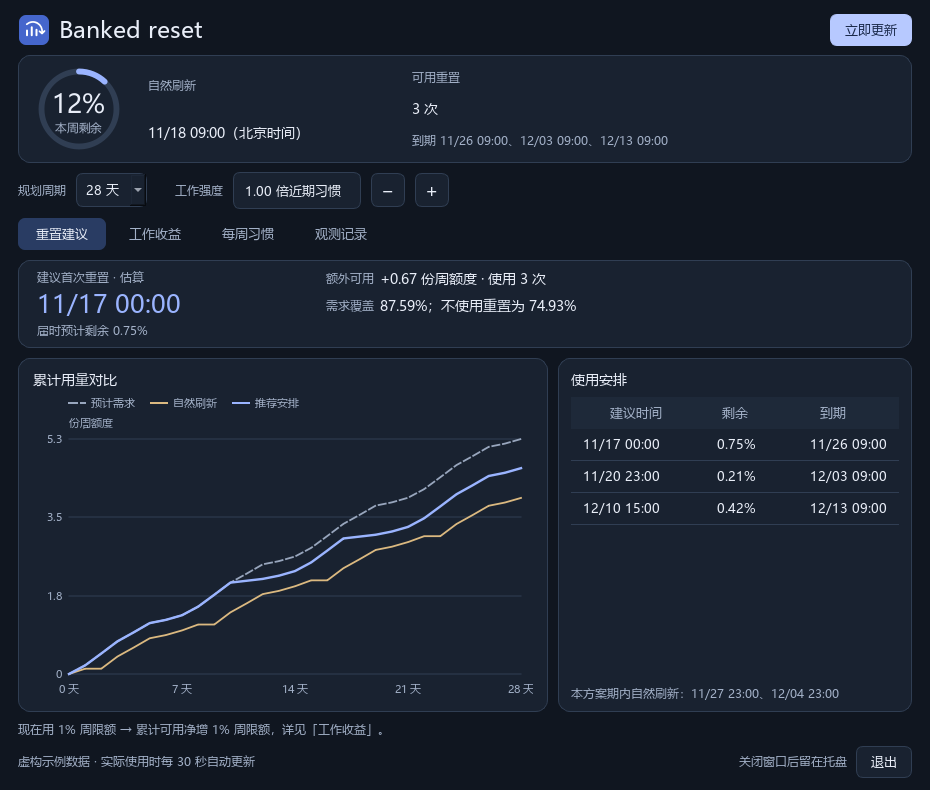
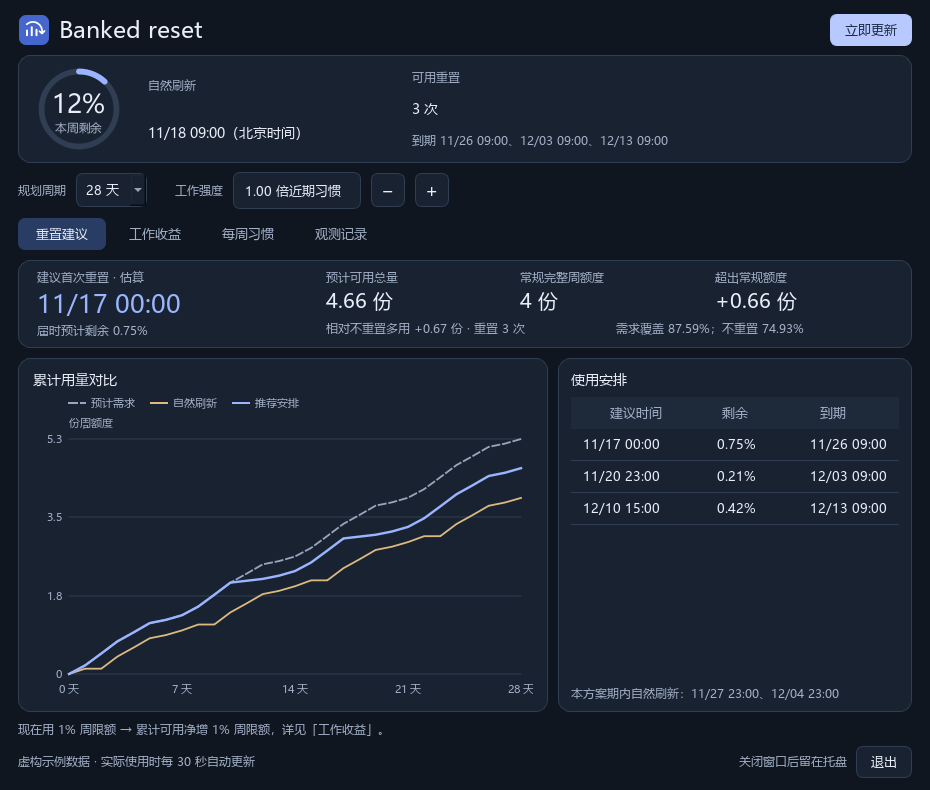
Show projected usage above complete weekly allowances

Changed region(s): [[0.343, 0.3342, 0.6548, 0.4253], [0.6548, 0.3342, 0.8731, 0.4253]]

diff --git a/tests/test_desktop.py b/tests/test_desktop.py
@@ -1,4 +1,4 @@
-"""Native work-return states use synthetic data and no account integration."""
+"""Native totals and work-return states use synthetic data and no account integration."""
 import copy
 import json
 import os
@@ -69,12 +69,44 @@ class WorkReturnTests(unittest.TestCase):
         self.assertEqual(self.window.marginal_table.item(0, 2).text(), '0.29')
         self.assertEqual(self.window.marginal_chart.marginal['futureGain'], 0)
 
+    def test_totals_subtract_one_full_allowance_per_week(self):
+        for index, days, total, surplus in [(0, 14, '0.14', '-1.86'),
+                                            (1, 28, '0.28', '-3.72'),
+                                            (2, 42, '0.42', '-5.58')]:
+            with self.subTest(days=days):
+                self.window.days.setCurrentIndex(index)
+                payload = copy.deepcopy(self.payload)
+                payload['settings'] = [days, 1]
+                payload['result'] = Calculator().optimize(payload['state']['model'], days)
+                self.window.update_state(payload)
+                self.assertEqual(self.window.period_total.text(), total+' 份')
+                self.assertEqual(self.window.regular_total.text(), str(days//7)+' 份')
+                self.assertEqual(self.window.allowance_surplus.text(), surplus+' 份')
+
+    def test_reset_surplus_uses_complete_allowance_not_predicted_no_reset_usage(self):
+        payload = copy.deepcopy(self.payload)
+        model = payload['state']['model']
+        model['hourlyByThreeHours'] = [[100/24]*8 for _ in range(7)]
+        model['dailyRates'] = [100]*7
+        model['account']['expiries'] = [model['account']['capturedAt']+day*86400 for day in (10, 20)]
+        payload['result'] = Calculator().optimize(model)
+        self.window.update_state(payload)
+        self.assertEqual(self.window.period_total.text(), '5.5 份')
+        self.assertEqual(self.window.regular_total.text(), '4 份')
+        self.assertEqual(self.window.allowance_surplus.text(), '+1.5 份')
+        self.assertIn('多用 +2 份', self.window.gain.text())
+        self.assertEqual(payload['result']['baseline']/100, 3.5)
+
     def test_changing_period_and_losing_connection_clear_old_return(self):
         self.window.days.setCurrentIndex(2)
+        self.assertEqual(self.window.period_total.text(), '—')
+        self.assertEqual(self.window.regular_total.text(), '—')
+        self.assertEqual(self.window.allowance_surplus.text(), '—')
         self.assertEqual(self.window.marginal_value.text(), '正在重算…')
         self.assertIsNone(self.window.marginal_chart.marginal)
         self.window.update_state(copy.deepcopy(self.payload))
         self.assertEqual(self.window.marginal_value.text(), '正在重算…')
+        self.assertEqual(self.window.allowance_surplus.text(), '—')
         offline = copy.deepcopy(self.payload)
         offline['settings'] = [42, 1]
         offline['result'] = None
@@ -84,6 +116,15 @@ class WorkReturnTests(unittest.TestCase):
         self.assertIsNone(self.window.marginal_chart.marginal)
         self.assertEqual(self.window.marginal_table.rowCount(), 0)
         self.assertEqual(self.window.comparison.text(), '')
+        self.assertEqual(self.window.period_total.text(), '—')
+        self.assertEqual(self.window.regular_total.text(), '—')
+        self.assertEqual(self.window.allowance_surplus.text(), '—')
+
+    def test_collector_failure_clears_old_totals(self):
+        self.window.show_failure('collection stopped')
+        self.assertEqual(self.window.period_total.text(), '—')
+        self.assertEqual(self.window.regular_total.text(), '—')
+        self.assertEqual(self.window.allowance_surplus.text(), '—')
 
     def test_less_than_one_point_shows_unavailable_instead_of_old_gain(self):
         payload = copy.deepcopy(self.payload)
@@ -101,6 +142,7 @@ class WorkReturnTests(unittest.TestCase):
         settings=json.loads((Path(self.folder.name)/'preferences.json').read_text(encoding='utf-8'))
         self.assertAlmostEqual(settings['strength'],1.05)
         self.assertEqual(self.window.marginal_value.text(),'正在重算…')
+        self.assertEqual(self.window.allowance_surplus.text(), '—')
         QTest.mouseClick(self.window.decrease_strength, Qt.MouseButton.LeftButton)
         self.assertAlmostEqual(self.window.strength.value(),1)
         self.window.strength.setValue(self.window.strength.maximum())

diff --git a/desktop.py b/desktop.py
@@ -160,6 +160,7 @@ class Window(QMainWindow):
         (RUNTIME/'preferences.json').write_text(json.dumps({'days': self.days.currentData(),
             'strength': self.strength.value()}), encoding='utf-8')
         self.first.setText('正在重算…')
+        self.update_totals(None)
         self.update_marginal(None, '正在重算…')
         self.request()
 
@@ -201,6 +202,7 @@ class Window(QMainWindow):
         if payload['settings'] != [self.days.currentData(), self.strength.value()]:
             return
         result = payload.get('result')
+        self.update_totals(result)
         if result is None:
             self.first.setText('暂无法规划')
             self.first_note.setText('状态说明见下方提示')
@@ -216,10 +218,10 @@ class Window(QMainWindow):
         self.first.setText(date(first['time']) if first else '暂不需要')
         self.first_note.setText('届时预计剩余 '+number(first['before'])+'%' if first else '期内使用需求无需额外重置')
         self.forecast_chart.set_result(result)
-        self.gain.setText('+'+number((result['optimal']['served']-result['baseline'])/100)+' 份周额度 · 使用 '+str(result['optimal']['count'])+' 次')
+        self.gain.setText('相对不重置多用 '+points((result['optimal']['served']-result['baseline'])/100, signed=True)+' 份 · 重置 '+str(result['optimal']['count'])+' 次')
         met = 100*result['optimal']['served']/result['demand'] if result['demand'] else 100
         baseline = 100*result['baseline']/result['demand'] if result['demand'] else 100
-        self.met.setText(number(met)+'%；不使用重置为 '+number(baseline)+'%')
+        self.met.setText('需求覆盖 '+number(met)+'%；不重置 '+number(baseline)+'%')
         now = result.get('now')
         marginal = result['marginal']
         if marginal['available']:
@@ -230,6 +232,18 @@ class Window(QMainWindow):
         fill_table(self.plan, [[date(step['time']), number(step['before'])+'%', date(step['expiry'])] for step in result['optimal']['schedule']])
         natural = [date(e['time']) for e in result['events'] if e['type'] == 'natural']
         self.naturals.setText('本方案期内自然刷新：'+('、'.join(natural) if natural else '无'))
+
+    def update_totals(self, result):
+        if result is None:
+            self.period_total.setText('—')
+            self.regular_total.setText('—')
+            self.allowance_surplus.setText('—')
+            return
+        total = result['optimal']['served']/100
+        regular = self.days.currentData()/7
+        self.period_total.setText(points(total)+' 份')
+        self.regular_total.setText(number(regular)+' 份')
+        self.allowance_surplus.setText(points(total-regular, signed=True)+' 份')
 
     def update_marginal(self, marginal, waiting='等待有效用量'):
         self.marginal_period.setText('现在用掉周限额的 1% · 未来 '+str(self.days.currentData())+' 天累计可用量净增估算')
@@ -263,6 +277,7 @@ class Window(QMainWindow):
         self.error.setText(message)
         self.error.show()
         self.status.setText('采集已停止，请重新打开计算器。')
+        self.update_totals(None)
         self.update_marginal(None, '采集已停止')
 
     def show_window(self):

diff --git a/desktop_visuals.py b/desktop_visuals.py
@@ -6,7 +6,7 @@ from pathlib import Path
 from PySide6.QtCore import QRectF, QSize, Qt
 from PySide6.QtGui import QColor, QFont, QIcon, QPainter, QPainterPath, QPalette, QPen
 from PySide6.QtWidgets import (
-    QAbstractItemView, QAbstractSpinBox, QComboBox, QDoubleSpinBox, QFormLayout, QFrame,
+    QAbstractItemView, QAbstractSpinBox, QComboBox, QDoubleSpinBox, QFrame,
     QHBoxLayout, QHeaderView, QLabel, QProgressBar, QPushButton, QSizePolicy,
     QTableWidget, QTableWidgetItem, QTabWidget, QVBoxLayout, QWidget,
 )
@@ -332,6 +332,7 @@ def build_interface(window):
         QLabel#firstValue { font-size: 25px; font-weight: 600; color: %(accent)s; }
         QLabel#marginalValue { font-size: 30px; font-weight: 600; color: %(accent)s; }
         QLabel#metricValue { font-size: 14px; font-weight: 500; }
+        QLabel#totalValue { font-size: 20px; font-weight: 600; }
         QLabel#section { font-size: 14px; font-weight: 600; }
         QFrame#accountPanel, QFrame#recommendationPanel, QFrame#chartPanel, QFrame#planPanel, QFrame#motivationPanel {
             background: %(surface)s; border: 1px solid %(border)s; border-radius: 12px;
@@ -458,11 +459,32 @@ def build_interface(window):
     window.first_note = text('正在连接用量并计算', 'caption')
     first.addWidget(window.first_note)
     summary.addLayout(first, 1)
-    metrics = QFormLayout()
-    metrics.setVerticalSpacing(9)
-    window.gain, window.met = text('—', 'metricValue'), text('—', 'metricValue')
-    metrics.addRow(text('额外可用', 'caption'), window.gain)
-    metrics.addRow(text('需求覆盖', 'caption'), window.met)
+    metrics = QVBoxLayout()
+    metrics.setSpacing(7)
+    totals = QHBoxLayout()
+    totals.setSpacing(16)
+    window.period_total = text('—', 'totalValue')
+    window.regular_total = text('—', 'totalValue')
+    window.allowance_surplus = text('—', 'totalValue')
+    for title, value in [('预计可用总量', window.period_total),
+                         ('常规完整周额度', window.regular_total),
+                         ('超出常规额度', window.allowance_surplus)]:
+        column = QVBoxLayout()
+        column.setSpacing(3)
+        column.addWidget(text(title, 'caption'))
+        value.setAccessibleName(title)
+        column.addWidget(value)
+        totals.addLayout(column, 1)
+    window.period_total.setToolTip('按当前工作强度和最优重置安排，规划期内预计实际能用的总量；1 份等于一周满额。')
+    window.regular_total.setToolTip('每 7 天按 1 份完整周额度计：14 / 28 / 42 天分别为 2 / 4 / 6 份。')
+    window.allowance_surplus.setToolTip('预计可用总量减去规划天数 ÷ 7；低于常规完整周额度时显示负值。')
+    metrics.addLayout(totals)
+    details = QHBoxLayout()
+    details.setSpacing(12)
+    window.gain, window.met = text('—', 'caption'), text('—', 'caption')
+    details.addWidget(window.gain, 1)
+    details.addWidget(window.met, 1)
+    metrics.addLayout(details)
     summary.addLayout(metrics, 2)
     plan_layout.addWidget(recommendation)
     middle = QHBoxLayout()

diff --git a/docs/release-notes-0.2.2.md b/docs/release-notes-0.2.2.md
@@ -1,0 +1,8 @@
+新增相对常规完整周额度的总量比较。
+
+- 并列显示“预计可用总量”“常规完整周额度”和“超出常规额度”。
+- 常规额度固定为规划天数 ÷ 7：14 / 28 / 42 天分别为 2 / 4 / 6 份。
+- 差值直接用预计总量减去完整周额度，低于基准时显示负值，随账户、强度和规划周期自动更新。
+- 保留按使用习惯估算的“不重置”曲线与实际多用量，并明确其含义。
+
+下载 **BankedReset-0.2.2-windows-x64.zip**，完整解压并运行 **BankedReset.exe**。更新前先从托盘退出旧版。
